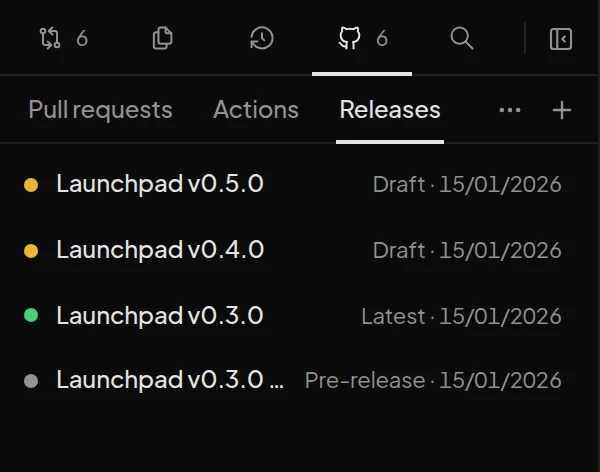
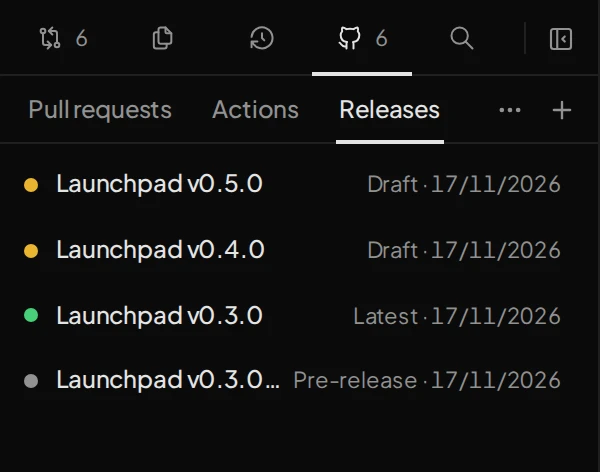
feat(website): show the command palette, getting back, a file's history, and job logs on the landing page
The landing page said logs stay on GitHub, which is no longer true, and
showed none of the ways to move around added since 1.0.0. Its Actions,
Preview, and Releases crops, and the demo poster, predated the Back and
Forward arrows, the file viewer's history button, and the log viewer.

Features gains a row: "Back to where you were." describes Back and
Forward, their list of steps, and the web build's addresses, beside
"Find anything from the keyboard.", a crop of the command palette on its
Commands tab with the g-and-letter keys. The branches tile becomes
"History, branches, and worktrees." with a crop of History narrowed to
README.md. In the GitHub section, the Actions tile is now "Follow runs,
read their logs." with a crop of the failed test job's log opened on its
error, and "Review, then merge." mentions reading a pull request's code
file by file, with a filter.

The Actions, Preview, and Releases crops and the demo poster are
recaptured from the demo; the other crops show what the demo shows today.

diff --git a/docs/website.md b/docs/website.md
@@ -158,12 +158,12 @@ Features are shown with crops of the real interface instead of icons or drawn mo
 <details>
 <summary>Update the interface crops</summary>
 
-Capture the demo in a 960 CSS pixel wide viewport at a device scale factor of 2, after the state each crop needs: one file staged with a commit message typed (`changes`) and the `src/filter-tasks.js` diff (`diff`), both 548 CSS pixels tall so every changed file shows above the commit box; `README.md` in Preview, scrolled to its Features heading so the Mermaid flowchart fits (`preview`), the GitHub list (`pulls`), PR #24 with its stack indicator open (`stack`), the **Releases** list (`releases`), and a CI run's job graph in **Actions** (`actions`). For the commit plan (`split`), stage every change, generate a message with the sample provider, choose **Split into 3**, and wait for the notice to leave; crop the commit composer alone, from its top edge to the bottom of the sidebar, in a viewport tall enough to show the three cards. Crop the sidebar at x 0, or the main area at x 300, from y 42; encode WebP at quality 0.9. `Shot.astro` reads each image's size, so crops can change height. The sample is dated back from the moment the page opens, so dates in a crop are those of the day it was taken. Recapture the demo poster from the demo's first view at 1280 × 720 whenever the sample's changes or the interface change. Review each image before deployment. Capture scripts and source PNGs stay untracked.
+Capture the demo in a 960 CSS pixel wide viewport at a device scale factor of 2, after the state each crop needs: one file staged with a commit message typed (`changes`) and the `src/filter-tasks.js` diff (`diff`), both 548 CSS pixels tall so every changed file shows above the commit box; `README.md` in Preview, scrolled to its Features heading so the Mermaid flowchart fits (`preview`), the GitHub list (`pulls`), PR #24 with its stack indicator open (`stack`), the **Releases** list (`releases`), the log of PR #24's failed `test` job in **Actions**, from the **CI #41** run's graph and **View log**, with the log scrolled so the line of the failing test is at its top (`actions`), and **Show History** on `README.md` in Files, 270 CSS pixels tall so its three commits show (`history`). For the command palette (`palette`), press `Ctrl+K` in a viewport 720 CSS pixels tall and crop 660 × 398 CSS pixels at x 150, y 42, so the palette, which is 640 wide and centered, sits in the middle of the crop. For the commit plan (`split`), stage every change, generate a message with the sample provider, choose **Split into 3**, and wait for the notice to leave; crop the commit composer alone, from its top edge to the bottom of the sidebar, in a viewport tall enough to show the three cards. Crop the sidebar at x 0, or the main area at x 300, from y 42; encode WebP at quality 0.9. `Shot.astro` reads each image's size, so crops can change height. The sample is dated back from the moment the page opens, so dates in a crop are those of the day it was taken. Recapture the demo poster from the demo's first view at 1280 × 720 whenever the sample's changes or the interface change. Review each image before deployment. Capture scripts and source PNGs stay untracked.
 
 </details>
 
-- **Git workflows (`#features`):** staging from a diff, branches and worktrees, and **Preview more than code** (HTML, images, SVG, and Markdown with Mermaid diagrams).
-- **GitHub (`#pull-requests`):** the PR list with stack layer indicators, a PR with its stack open, releases, and an Actions run graph. A note links to the GitHub guide and names the `gh` requirement.
+- **Git workflows (`#features`):** staging from a diff, history down to one file with branches and worktrees, **Preview more than code** (HTML, images, SVG, and Markdown with Mermaid diagrams), then getting back with **Back** and **Forward** and addresses, beside the command palette and keyboard movement. The Back and Forward tile has no crop: their list of steps is wider than a sidebar crop.
+- **GitHub (`#pull-requests`):** the PR list with stack layer indicators, a PR with its stack open, releases, and a failed job's log in Actions. A note links to the GitHub guide and names the `gh` requirement.
 - **Host diagram (`#anywhere`):** an inline SVG of repositories, Git, and OpenTig on one host, reached by a laptop, tablet, and phone through SSH, a VPN, or an HTTPS tunnel. Dashed links flow, small dots travel each way along them, and the device screens animate, all in CSS; reduced motion stops the animation and hides the dots. A wide layout is replaced by a stacked one below 640 pixels. Short notes on local operations, pairing, and networking link to the browser access guide.
 
 - **Hero:** identify OpenTig as a free, open-source Git client and a focused workspace for Git repositories. Supporting copy covers file browsing, diffs, editing, commits, branches, worktrees, and GitHub pull requests, followed directly by installation actions. AI copy and the tool-logo row belong farther down the page.
